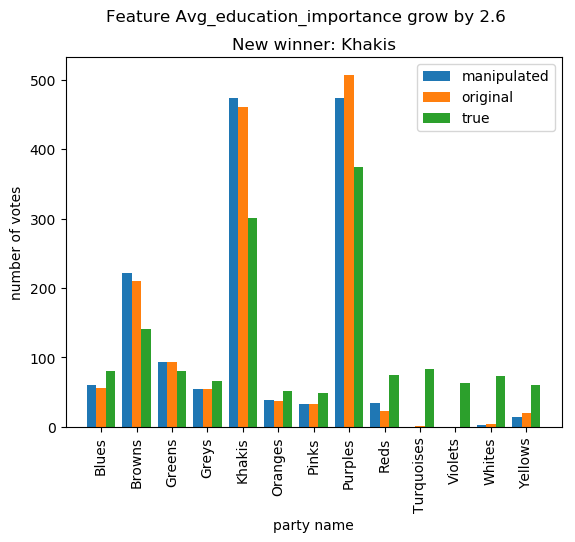
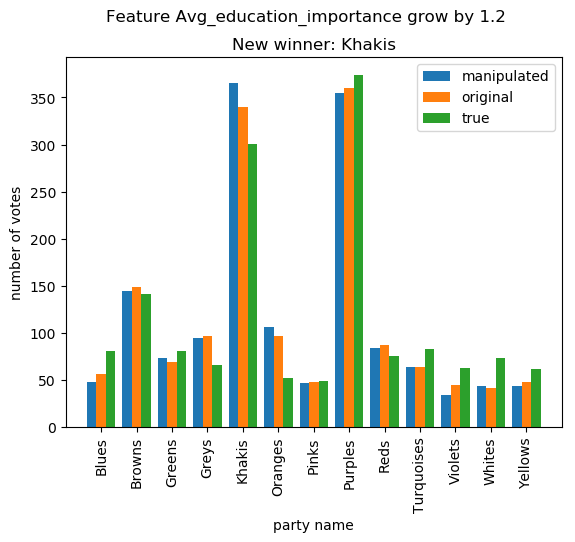
feature manipulator finished

diff --git a/feature_manipulator.py b/feature_manipulator.py
@@ -54,8 +54,7 @@ class featureManipulator():
                     print("If ", self.feature_names[col], " will be important to everyone, that will cause ",
                           winner_name,
                           " to win")
-                else:
-                    print('No change in predicton')
+
 
     def set_one_hot(self, x_data, col):
         assert self.feature_names[col] in self.one_hot_data
@@ -84,10 +83,11 @@ class featureManipulator():
                         plot_3hist(path, title, predictions, true_predictions, self.y_test,
                                    'manipulated', 'original', 'true', self.party_dict, suptitle=suptitle)
 
-                        print("If ", self.feature_names[col], " will grow by ", np.round(c, PRECISION), ", that will cause ", winner_name, " to win")
+                        print("If ", self.feature_names[col], " will grow by ",
+                              np.round(c, PRECISION), ", that will cause ",
+                              winner_name, " to win")
                         break
-                    else:
-                        print('No change in predicton')
+
                 for c in C_DEC_RANGE:
                     alterated_x = self.alterate_column(self.x_test, col, c)
                     predictions = self.model.predict(alterated_x)
@@ -100,10 +100,11 @@ class featureManipulator():
                         plot_3hist(path, title, predictions, true_predictions, self.y_test,
                                    'manipulated', 'original', 'true', self.party_dict, suptitle=suptitle)
 
-                        print("If ", self.feature_names[col], " will decrease by ", np.round(c, PRECISION), ", that will cause ", winner_name, " to win")
+                        print("If ", self.feature_names[col], " will decrease by ",
+                              np.round(c, PRECISION), ", that will cause ",
+                              winner_name, " to win")
                         break
-                    else:
-                        print('No change in predicton')
+
 
     def alterate_column(self, x_data, col, c):
         assert self.feature_names[col] in self.continuous_data

diff --git a/main.py b/main.py
@@ -30,8 +30,8 @@ def main():
 
     models = [svm.SVC(kernel='rbf', C=20, gamma='auto', probability=True),
               MLPClassifier([50], activation='relu', max_iter=1000),
-              KNeighborsClassifier(n_neighbors=5, weights='distance'),
-              RandomForestClassifier(n_estimators=50, max_depth=5, min_samples_split=0.01)]
+              KNeighborsClassifier(n_neighbors=3, weights='distance'),
+              RandomForestClassifier(n_estimators=50, max_depth=8, min_samples_split=0.01)]
     model_names = ['SVM_rbf',
                     'MLP[50]',
                     'KNN_distance',

diff --git a/hist_plotter.py b/hist_plotter.py
@@ -19,6 +19,7 @@ def plot_hist(path, title, hist1, hist2, lbl1, lbl2, dict, save=True, suptitle=N
     plt.show()
 
 def plot_3hist(path, title, hist1, hist2, hist3, lbl1, lbl2, lbl3, dict, save=True, suptitle=None):
+    #print('\includegraphics[width=\\textwidth]{'+path+'}')
     plt.hist([hist1, hist2, hist3], bins=np.arange(14) - 0.5, label=[lbl1, lbl2, lbl3])
     plt.xlim([-1, 13])
     plt.legend()
